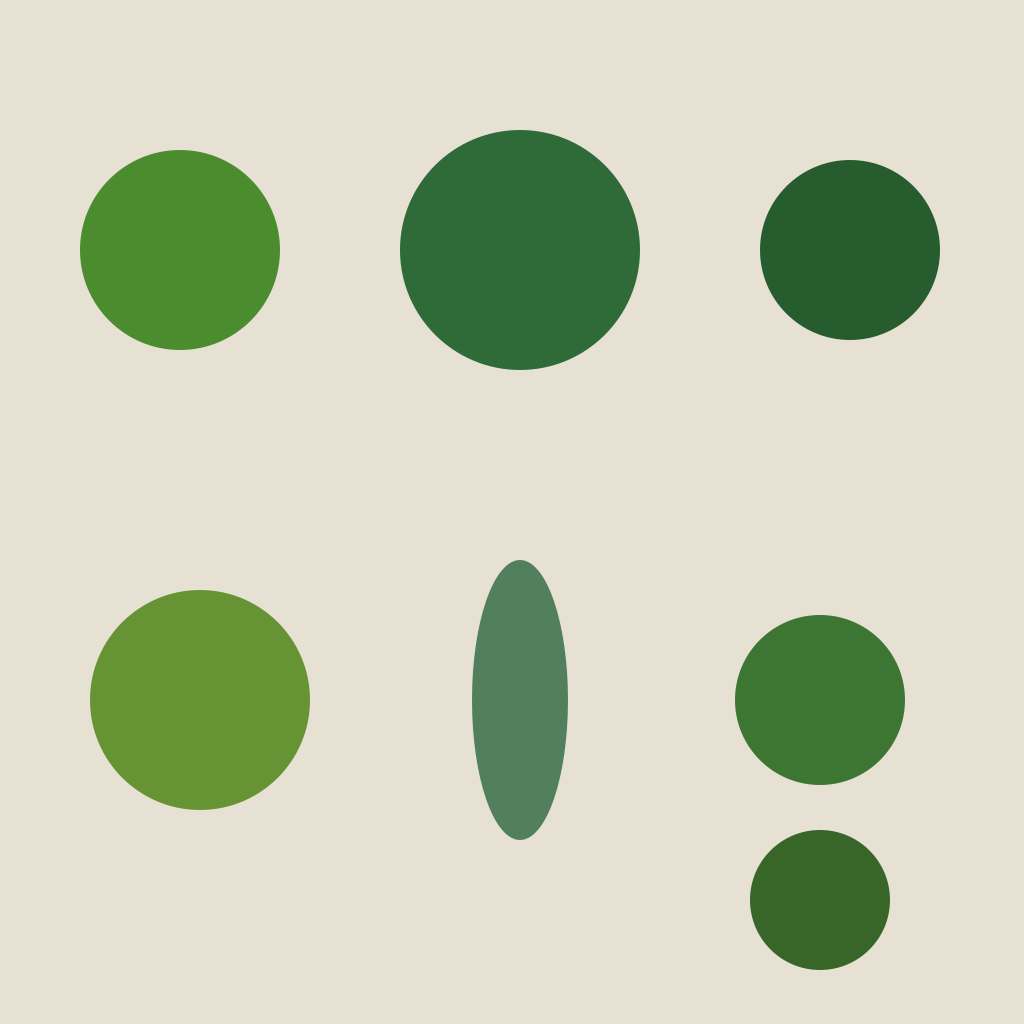
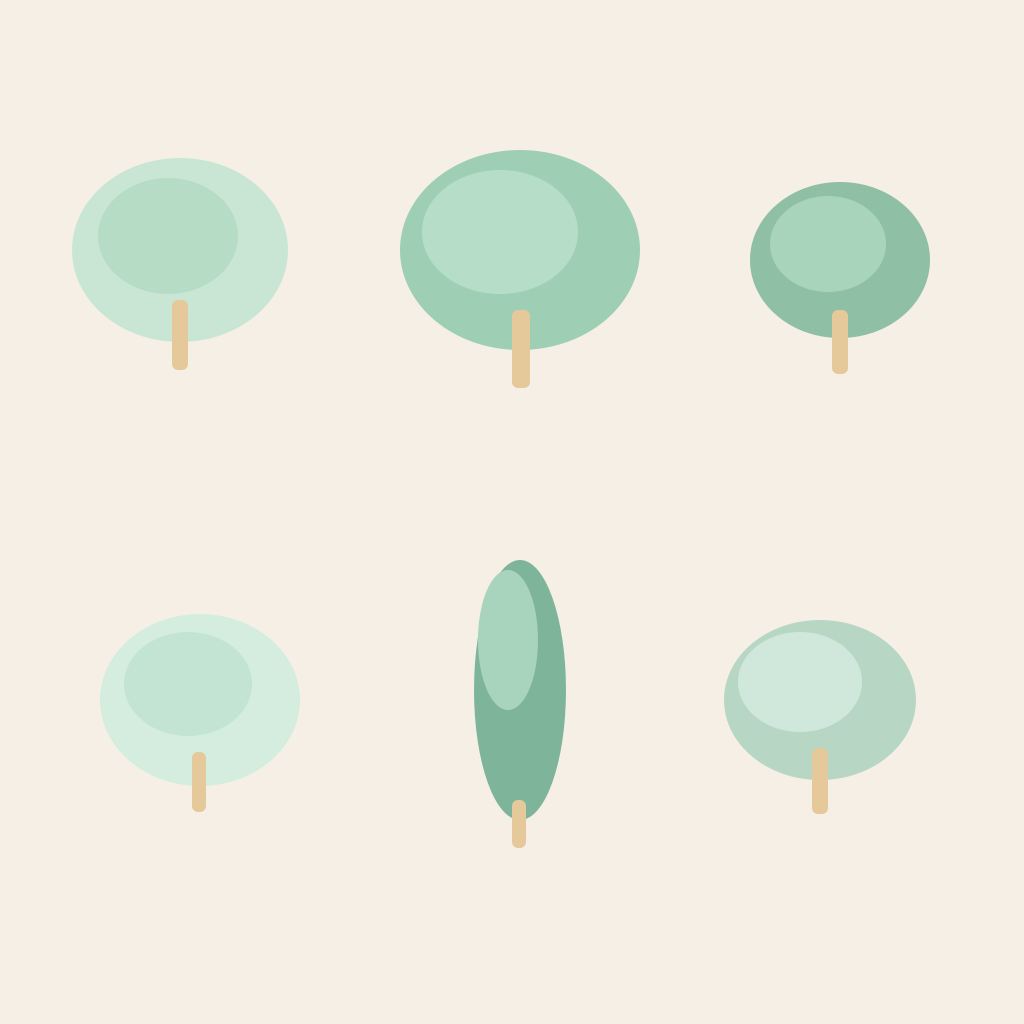
Use the pastel game style and reject invented roof ridges.
Style C is the paint reference: the Grote Markt tile plus mint and sage crowns. The shared prompt locks geometry and keeps flat roofs flat. Roof-tile texture still passes; a new ridge on a flat block is retried.

diff --git a/pipeline/src/paint.ts b/pipeline/src/paint.ts
@@ -25,49 +25,50 @@ import { GROUND_H, openArea } from "./areas.ts";
 import { CAMERA, llhToPixel } from "./camera.ts";
 import { DERIVED, PIPELINE, readJson, writeAtomic } from "./paths.ts";
 import { SEA_H, readHeights } from "./heights.ts";
-import { applyRegistration, register } from "./register.ts";
+import { applyRegistration, register, roofNovelty } from "./register.ts";
 import {
   PRICE_1K_USD, choosePaintMode, estimateUsd, geminiEdit, runGeminiBatch, type GeminiImage,
 } from "./gemini.ts";
-import { MIN_MATCH, MIN_TEXTURE, paintVerdict, shouldWarp } from "./paintqa.ts";
+import { MAX_ROOF_NOVELTY, MIN_MATCH, MIN_TEXTURE, paintVerdict, shouldWarp } from "./paintqa.ts";
 
 const WIN = 1024, OVERLAP = 128, STRIDE = WIN - OVERLAP, T = CAMERA.tile;
 /** Blend band in the middle of each overlap; outside it a window's own pixels win outright. */
 const FEATHER = 64;
 const STYLE = join(PIPELINE, "style", "reference.png");
-const TREES = join(PIPELINE, "style", "trees.png"); // species sheet (painted once with Codex)
+const TREES = join(PIPELINE, "style", "trees.png"); // pastel mint and sage crowns, style C
 const SEA = join(PIPELINE, "style", "sea.png");
-const PROMPT = `Use your image generation tool. Four images are attached:
-1. input.png: an orthographic aerial render (camera tilted 45° down, no perspective) of a simple 3D model \
-of {title}, Belgium, built from Flemish open data. ~256 m across. The layout is exact; the colours are flat \
-placeholders (grey = asphalt with lane markings, pale = pavement/plaza, green = grass/park, \
-blue = the Leie or another waterway, brown dashes = rail, terracotta = bike path) and the window patterns are schematic hints. \
-Tree crowns are colour-coded by species (see image 4): yellow-green = linden, dark green = plane, \
-deep green = beech, bright green = horse chestnut, blue-green and narrow = poplar, mid green = hornbeam, darker rounded = oak.
-2. height.png: the height map from the SAME camera, pixel-aligned with image 1. Black = ground \
-(streets, squares, water), grey→white = buildings and trees, brighter = taller. Use it to find exact \
-building footprints, edges and heights; open black areas are streets/plazas, not trees. Church spires and the belfry stay the tallest objects.
-3. style.png: the STYLE REFERENCE (a Flemish street, not a photo).
-4. trees.png: crown shapes in the same style. Left to right, top row: linden, plane, beech; bottom row: horse chestnut, poplar, hornbeam, oak.
+/** Style C, pastel game-like, plus the shared geometry lock. Used by every painter. */
+const GEOMETRY_LOCK = `Follow the source massing render as a strict geometric template. Preserve every \
+building position, footprint, height, roof outline, street, square, water, and \
+tree. Do not add, remove, move, merge, or invent buildings, towers, bridges, \
+rivers, vehicles, people, or landmarks. Do not copy objects from any style \
+reference (no glass skyscrapers, palm trees, jacarandas, solar farms, or extra \
+churches). You may add painted windows, shutters, facade color variation, \
+roof-tile texture, cobblestones, and richer deciduous tree canopies, but \
+silhouettes and positions must stay identical. Keep the same isometric camera, \
+framing, and crop. Empty map-edge background stays empty. No text, labels, \
+borders, or watermarks.
+Flat roof planes in the massing stay flat. Paint blush or coral tile colour on that existing plane only. \
+Do not add hips, ridges, gables, or pitched roofs that change the silhouette.`;
 
-Redraw image 1 as a detailed isometric illustrated city in EXACTLY the style of image 3: \
-clean crisp 3D blocks with straight vertical walls, brick townhouses with regular window grids, \
-stone churches and the belfry, stepped gables where the footprint already suggests them, dark tile roofs, \
-saturated but natural colours, realistic varied trees drawn as the species of image 4 seen from above, \
-smooth grey asphalt with lane markings, pale stone pavements, the river in its real banks, soft even daylight, \
-light ambient occlusion, no long shadows, no haze, no photographic noise.
+const STYLE_C = `Bright, stylised, pastel isometric city-map illustration with a cozy \
+city-builder / storybook-game finish. Blush and coral roofs, peach and cream \
+walls, mint and sage tree canopies, pale lavender-grey streets, soft peachy \
+shadows, simplified charming window dots, clean soft shapes, high-key pastel \
+palette, no grit. Still a clear illustrated map, not photorealistic.`;
 
-Geometry comes ONLY from images 1 and 2 — this is a tracing job:
-- Same orthographic camera, framing and scale: the output overlays image 1 pixel-for-pixel.
-- Every building keeps its exact footprint, position, height and roof outline. Draw believable Kortrijk \
-materials: red-brown brick, whitewashed beguinage walls, grey stone churches, dark ceramic roofs. \
-Tall towers stay tall. Do not add, remove, merge or move buildings or trees; do not invent trees over open streets.
-- Streets, squares, parks and the river stay exactly where they are; give them real texture \
-(pale grey stone paving, crosswalks at junctions, grass, water). Parked cars along kerbs only, \
-no cars in the driving lanes.
-- Layering is exactly as in image 1: where a bridge crosses the river or another road, the \
-bridge deck is continuous and on top, and whatever passes underneath is hidden beneath it.
-- Image 3 is only for style. Do not copy its buildings, layout or architecture.
+const PROMPT = `Four images are attached, in order:
+1. input.png: an orthographic massing render (camera tilted 45° down, no perspective) of {title}, Belgium, \
+built from Flemish open data. ~256 m across. Layout is exact. Colours are flat placeholders.
+2. height.png: the height map from the SAME camera, pixel-aligned with image 1. Black = ground, \
+brighter = taller. Use it for footprints and heights. Church spires and the belfry stay the tallest objects.
+3. style.png: STYLE ONLY. A pastel painted tile. Do not copy its buildings, streets, or towers into this frame.
+4. trees.png: pastel crowns for this style. Round mint and sage canopies, one narrow poplar. \
+Repaint every tree already in image 1 with these canopies. Do not add or move trees. Do not use dark forest green.
+
+${GEOMETRY_LOCK}
+
+Style: ${STYLE_C}
 {continuation}Output: one square 1024x1024 image, no text, no labels, no border, no vignette.
 
 When done, copy the final PNG to {out} and reply only with that path.
@@ -386,10 +387,13 @@ function windowPrompt(edges: string[], out: string, gemini: boolean) {
 async function acceptOrRetry(job: Prepared, attempt: number, started: number): Promise<"accept" | "retry"> {
   const { i, j, work, edges } = job;
   const r = await register(join(work, "input.png"), join(work, "out.png"));
-  writeFileSync(join(work, "qa.json"), JSON.stringify(r));
+  const roofs = await roofNovelty(join(work, "input.png"), join(work, "out.png"));
+  writeFileSync(join(work, "qa.json"), JSON.stringify({ ...r, roofNovelty: roofs }));
   const dark = await hasDarkPatch(join(work, "out.png"), join(work, "input.png"));
-  if (paintVerdict({ score: r.score, identity: r.identity, texture: r.texture, dark, attempt }) === "retry") {
-    console.warn(`  ${i}_${j}: ${dark ? "black band or patch" : `match ${r.score.toFixed(2)} < ${MIN_MATCH}`}, repainting`);
+  if (paintVerdict({ score: r.score, identity: r.identity, texture: r.texture, dark, attempt, roofNovelty: roofs }) === "retry") {
+    const why = roofs > MAX_ROOF_NOVELTY ? `roof silhouette changed (${roofs.toFixed(2)})`
+      : dark ? "black band or patch" : `match ${r.score.toFixed(2)} < ${MIN_MATCH}`;
+    console.warn(`  ${i}_${j}: ${why}, repainting`);
     return "retry";
   }
   const structured = r.texture >= MIN_TEXTURE;

diff --git a/pipeline/src/gemini.test.ts b/pipeline/src/gemini.test.ts
@@ -10,7 +10,9 @@ import {
   imagesFromBatchJsonl, readBatchState, requireGeminiKey, runGeminiBatch,
   type FetchImpl, type GeminiImage,
 } from "./gemini.ts";
-import { paintVerdict, shouldWarp } from "./paintqa.ts";
+import { MAX_ROOF_NOVELTY, paintVerdict, shouldWarp } from "./paintqa.ts";
+import { roofNovelty } from "./register.ts";
+import sharp from "sharp";
 
[1 lines of base64/hex data omitted]
 
@@ -166,11 +168,37 @@ test("small tests stay interactive and a whole area uses the batch API", () => {
   assert.equal(estimateUsd(10, true), 5 * PRICE_1K_USD);
 });
 
+async function flatBlock(mode: "plain" | "tiles" | "ridge") {
+  const s = 256;
+  const raw = Buffer.alloc(s * s * 3, 230);
+  for (let y = 40; y < 180; y++) for (let x = 40; x < 200; x++) {
+    const i = (y * s + x) * 3;
+    let r = 170, g = 80, b = 60;
+    if (mode === "tiles" && (x % 6 === 0 || y % 8 === 0)) { r -= 14; g -= 8; b -= 6; }
+    if (mode === "ridge" && Math.abs((y - 40) - (x - 40) * 0.4) < 2) { r = 230; g = 210; b = 190; }
+    raw[i] = r; raw[i + 1] = g; raw[i + 2] = b;
+  }
+  return sharp(raw, { raw: { width: s, height: s, channels: 3 } }).png().toBuffer();
+}
+
+test("roof check allows tile texture and rejects a new ridge on a flat block", async () => {
+  const plain = await flatBlock("plain");
+  const tiles = await flatBlock("tiles");
+  const ridge = await flatBlock("ridge");
+  const texture = await roofNovelty(plain, tiles);
+  const pitched = await roofNovelty(plain, ridge);
+  assert.ok(texture <= MAX_ROOF_NOVELTY, `texture novelty ${texture}`);
+  assert.ok(pitched > MAX_ROOF_NOVELTY, `ridge novelty ${pitched}`);
+});
+
 test("a weak or black paint is retried, then kept on the third attempt", () => {
   assert.equal(paintVerdict({ score: 0.2, identity: 0.9, texture: 0.4, dark: false, attempt: 1 }), "retry");
   assert.equal(paintVerdict({ score: 0.9, identity: 0.8, texture: 0.4, dark: true, attempt: 1 }), "retry");
   assert.equal(paintVerdict({ score: 0.2, identity: 0.9, texture: 0.01, dark: false, attempt: 1 }), "accept");
   assert.equal(paintVerdict({ score: 0.2, identity: 0.9, texture: 0.4, dark: true, attempt: 3 }), "accept");
+  assert.equal(paintVerdict({ score: 0.8, identity: 0.7, texture: 0.4, dark: false, attempt: 1, roofNovelty: 0.1 }), "retry");
+  assert.equal(paintVerdict({ score: 0.8, identity: 0.7, texture: 0.4, dark: false, attempt: 1, roofNovelty: 0.01 }), "accept");
+  assert.ok(MAX_ROOF_NOVELTY < 0.1);
   assert.equal(shouldWarp({ score: 0.7, identity: 0.6, texture: 0.4 }), true);
   assert.equal(shouldWarp({ score: 0.7, identity: 0.6, texture: 0.01 }), false);
 });

diff --git a/pipeline/src/register.ts b/pipeline/src/register.ts
@@ -57,6 +57,50 @@ export async function register(reference: string, painted: string, size = 1024):
   return { scale: best.scale, dx: best.dx * k, dy: best.dy * k, score: best.score, identity, texture };
 }
 
+const ROOF_S = 256;
+const ROOF_BLUR = 1.4;
+
+function sobelGrey(g: Buffer): Float32Array {
+  const e = new Float32Array(ROOF_S * ROOF_S);
+  for (let y = 1; y < ROOF_S - 1; y++) for (let x = 1; x < ROOF_S - 1; x++) {
+    const i = y * ROOF_S + x;
+    const gx = g[i + 1 - ROOF_S] + 2 * g[i + 1] + g[i + 1 + ROOF_S] - g[i - 1 - ROOF_S] - 2 * g[i - 1] - g[i - 1 + ROOF_S];
+    const gy = g[i + ROOF_S - 1] + 2 * g[i + ROOF_S] + g[i + ROOF_S + 1] - g[i - ROOF_S - 1] - 2 * g[i - ROOF_S] - g[i - ROOF_S + 1];
+    e[i] = Math.hypot(gx, gy);
+  }
+  return e;
+}
+
+/**
+ * Share of the render's flat, darker-than-ground surfaces (roof planes and blank wall faces)
+ * where the paint grew a strong new edge.
+ * Fine roof-tile texture stays near 0. A hip, ridge, or gable added to a flat LOD1 roof does not.
+ */
+export async function roofNovelty(reference: string | Buffer, painted: string | Buffer): Promise<number> {
+  const fit = { fit: "fill" as const };
+  const [raw, rg, pg] = await Promise.all([
+    sharp(reference).resize(ROOF_S, ROOF_S, fit).removeAlpha().raw().toBuffer(),
+    sharp(reference).resize(ROOF_S, ROOF_S, fit).greyscale().blur(ROOF_BLUR).raw().toBuffer(),
+    sharp(painted).resize(ROOF_S, ROOF_S, fit).greyscale().blur(ROOF_BLUR).raw().toBuffer(),
+  ]);
+  const re = sobelGrey(rg), pe = sobelGrey(pg);
+  const lums: number[] = [];
+  for (let i = 0; i < ROOF_S * ROOF_S; i++) if (re[i] < 22)
+    lums.push(0.3 * raw[i * 3] + 0.5 * raw[i * 3 + 1] + 0.2 * raw[i * 3 + 2]);
+  if (lums.length < 500) return 0;
+  lums.sort((a, b) => a - b);
+  const med = lums[lums.length >> 1]!;
+  let n = 0, hot = 0;
+  for (let i = 0; i < ROOF_S * ROOF_S; i++) {
+    if (re[i] >= 22) continue;
+    const lum = 0.3 * raw[i * 3] + 0.5 * raw[i * 3 + 1] + 0.2 * raw[i * 3 + 2];
+    if (lum > med - 8) continue;
+    n++;
+    if (pe[i] > 36) hot++;
+  }
+  return n ? hot / n : 0;
+}
+
 /** Warp the painted image by the registration so it overlays the reference. */
 export async function applyRegistration(painted: string, out: string, r: Registration, size = 1024) {
   if (r.scale === 1 && r.dx === 0 && r.dy === 0) return writeAtomic(sharp(painted).resize(size, size).png(), out);

diff --git a/pipeline/src/paintqa.ts b/pipeline/src/paintqa.ts
@@ -9,6 +9,11 @@
 
 export const MIN_MATCH = 0.45;
 export const MIN_TEXTURE = 0.05;
+/**
+ * Max share of flat roof/wall interiors that grew a strong new edge.
+ * Tile texture on the existing plane stays under this. A pitched roof on a flat block does not.
+ */
+export const MAX_ROOF_NOVELTY = 0.04;
 export const MAX_ATTEMPTS = 3;
 
 export interface PaintScore {
@@ -18,10 +23,13 @@ export interface PaintScore {
   dark: boolean;
   /** 1-based attempt. */
   attempt: number;
+  /** From register.roofNovelty. Omitted in tests that only check the edge-map score. */
+  roofNovelty?: number;
 }
 
 export function paintVerdict(input: PaintScore): "accept" | "retry" {
   if (input.dark && input.attempt < MAX_ATTEMPTS) return "retry";
+  if ((input.roofNovelty ?? 0) > MAX_ROOF_NOVELTY && input.attempt < MAX_ATTEMPTS) return "retry";
   const structured = input.texture >= MIN_TEXTURE;
   if (structured && input.score < MIN_MATCH && input.attempt < MAX_ATTEMPTS) return "retry";
   return "accept";

diff --git a/pipeline/page/renderer.ts b/pipeline/page/renderer.ts
@@ -197,8 +197,8 @@ const buildingMaterial = new THREE.ShaderMaterial({
 });
 
 /**
- * Street and park trees of Flanders, as placeholder colours the paint step turns into drawn crowns
- * (style/trees.png). [name, weight, crown colour, crown scale xy, crown scale z, palm?]
+ * Massing colours for tree crowns. The paint step recolours them mint and sage
+ * (style/trees.png, style C). [name, weight, crown colour, crown scale xy, crown scale z, palm?]
  */
 const SPECIES: Array<[string, number, number[], number, number, boolean]> = [
   ["linden", 26, [0.29, 0.55, 0.18], 1.05, 0.8, false],

diff --git a/README.md b/README.md
@@ -2,7 +2,7 @@
 
 An isometric map of Kortrijk you can pan and zoom. Buildings, streets and trees sit where they really are. The picture is a 3D render from Flemish open data; an optional image model repaints each window of that render in one illustrated style, checked so nothing moves.
 
-The pipeline and the viewer are adapted from [Isometric World](https://github.com/krasun/isometricworld) by Dmytro Krasun (MIT). This repository keeps that licence ([LICENSE](LICENSE)). It does **not** include his map tiles, video or style images: those stay with his data credits, and [ATTRIBUTION.md](ATTRIBUTION.md) in his repository says not to reuse them. The style sheets in `pipeline/style/` are original placeholders drawn for Kortrijk.
+The pipeline and the viewer are adapted from [Isometric World](https://github.com/krasun/isometricworld) by Dmytro Krasun (MIT). This repository keeps that licence ([LICENSE](LICENSE)). It does **not** include his map tiles, video or style images: those stay with his data credits, and [ATTRIBUTION.md](ATTRIBUTION.md) in his repository says not to reuse them. The paint style is variant C, a pastel game-like map: `pipeline/style/reference.png` is a painted Grote Markt tile in that palette, and `trees.png` is mint and sage crowns.
 
 Live reference for the look: [isometric Tel Aviv](https://isometricworld.dmytrokrasun.com/tel-aviv-yafo).
 
@@ -52,7 +52,7 @@ npm run dev
 
 Not run in the default build. The viewer shows the render until a painter fills `data/derived/<area>/paint/`.
 
-The default painter is Gemini Nano Banana, model `gemini-nano-banana-2.1` (override with `GEMINI_IMAGE_MODEL`). Secret **`GEMINI_API_KEY`**. Each window sends the render, the height pass, `pipeline/style/reference.png` and `pipeline/style/trees.png`. A result that drifts from the render, or comes back with a black band, is rejected and retried up to three times (`pipeline/src/paintqa.ts`).
+The default painter is Gemini Nano Banana, model `gemini-nano-banana-2.1` (override with `GEMINI_IMAGE_MODEL`). Secret **`GEMINI_API_KEY`**. The same prompt (geometry lock plus style C) is sent to Gemini, Codex, and OpenAI. Each window sends the render, the height pass, `pipeline/style/reference.png` and `pipeline/style/trees.png`. A result that drifts from the render, grows a new roof ridge on a flat block, or comes back with a black band, is rejected and retried up to three times (`pipeline/src/paintqa.ts`). Roof-tile colour on the existing plane is allowed.
 
 | | |
 |---|---|
@@ -74,7 +74,7 @@ Other providers, if you set `PAINT_PROVIDER`:
 - `codex`. The [Codex CLI](https://github.com/openai/codex) on `PATH`, logged into ChatGPT. No API key. This is the upstream tool. No batch mode.
 - `openai`. Secret **`OPENAI_API_KEY`**. Optional `OPENAI_IMAGE_MODEL` (default `gpt-image-1`).
 
-Replace the placeholder style sheets with a painted Flemish reference before spending on the whole city.
+Style C is already the reference. Do not swap in another city's painted tiles.
 
 ## Publishing
 

diff --git a/.claude/skills/paint-tiles/SKILL.md b/.claude/skills/paint-tiles/SKILL.md
@@ -17,12 +17,12 @@ Optional. Export already shows the 3D render wherever `paint/` has no tile. Do n
 
 Gemini prices for `gemini-nano-banana-2.1`: **$0.0336 per 1K image**, **$0.0504 per 2K**. This painter requests 1K (windows are 1024 px). The Batch API is half of that ($0.0168 per 1K image).
 
-Style sheets (original placeholders, not from isometricworld):
+Style is variant C, pastel and game-like. Do not replace these with Tel Aviv imagery.
 
-- `pipeline/style/reference.png`
-- `pipeline/style/trees.png`
+- `pipeline/style/reference.png`: a painted Grote Markt and Belfort tile. Blush and coral roofs, peach and cream walls, mint and sage trees, pale lavender streets. Style only. The prompt forbids copying its buildings into another window.
+- `pipeline/style/trees.png`: round mint and sage canopies and one narrow poplar, on a cream ground.
 
-Replace them with a painted Flemish street and crown sheet before a large spend. The prompt is in `pipeline/src/paint.ts`. The HTTP client is `pipeline/src/gemini.ts`.
+The prompt in `pipeline/src/paint.ts` is shared by Gemini, Codex, and OpenAI: the geometry lock, then the style C paragraph. Flat roof planes stay flat. Tile colour on that plane is allowed. Hips, ridges, and gables that change the silhouette are not. The HTTP client is `pipeline/src/gemini.ts`.
 
 ## Commands
 
@@ -55,7 +55,7 @@ Mode, only for `PAINT_PROVIDER=gemini`:
 3. Sends four PNGs, in order: `input.png` (the render), `height.png`, `style.png`, `trees.png`.
 4. Interactive: `POST https://generativelanguage.googleapis.com/v1beta/models/{model}:generateContent` with header `x-goog-api-key`.
 5. Batch: upload a JSONL to the Files API, `POST .../models/{model}:batchGenerateContent`, poll `GET /v1beta/batches/...` until `BATCH_STATE_SUCCEEDED`, download the output JSONL.
-6. `pipeline/src/register.ts` compares edge maps. `pipeline/src/paintqa.ts` retries (up to 3 attempts) when the match is under 0.45 on a textured window or the paint has a black band the render does not. A small shift is warped back.
+6. `pipeline/src/register.ts` compares edge maps, and `roofNovelty` measures strong new edges on surfaces that were flat in the render. `pipeline/src/paintqa.ts` retries (up to 3 attempts) when the match is under 0.45 on a textured window, when roof novelty is over 0.04 (a new ridge on a flat block), or when the paint has a black band the render does not. Roof-tile texture stays under 0.04. A small shift is warped back.
 7. Assembles accepted windows into `paint/<tx>_<ty>.png`.
 
 Open sea reuses `pipeline/style/sea.png` when that file exists. Kortrijk binnenstad has no open sea; the Leie is not at `SEA_H`.

diff --git a/CLAUDE.md b/CLAUDE.md
@@ -20,7 +20,7 @@ Adapted from [Isometric World](https://github.com/krasun/isometricworld) (Dmytro
 | `pipeline/src/export.ts` | AVIF pyramid into `data/web/regions/kortrijk/` |
 | `pipeline/src/hosting.ts` | R2 bucket `simkortrijk-tiles` |
 | `web/` | Astro viewer. `/` and `/kortrijk` |
-| `pipeline/style/` | Original placeholder style sheets, not Tel Aviv's |
+| `pipeline/style/` | Style C (pastel game-like). `reference.png` is the painted Grote Markt tile. `trees.png` is mint/sage crowns. Not Tel Aviv imagery. |
 | `.claude/skills/` | One skill per step |
 
 `data/` is gitignored. Raw downloads are `data/raw/<area>/`. Renders and paints are `data/derived/<area>/`. The viewer reads `data/web/`.
@@ -97,7 +97,8 @@ Do not run `npm run paint` until `GEMINI_API_KEY` is set on purpose. `npm test` 
 - Render uses software WebGL if there is no GPU (`--enable-unsafe-swiftshader`). `-j 2` is a safe default.
 - The dev server 404s `/regions/...` that are not in `data/web` when `TILES_ORIGIN` is empty. Export first.
 - `uitest` treats any HTTP 400+ as a failure, including a tile the index should not have requested.
-- Style sheets in `pipeline/style/` are flat sketches. A real paint run wants a painted reference or the model will follow the sketch.
+- Paint style is variant C: blush and coral roofs, peach and cream walls, mint and sage trees, pale lavender streets. The prompt in `paint.ts` is the geometry lock plus that paragraph. Flat LOD1 roofs stay flat; tile colour is allowed, new hips and ridges are not.
+- `roofNovelty` in `register.ts` retries a paint when more than 4% of flat roof and wall interiors grow a strong new edge. Fine tile texture stays under that. Do not copy Tel Aviv style images into `pipeline/style/`.
 - Whole-city DHMV is a large raster and tens of thousands of GetFeatureInfo calls. Use the binnenstad area until that is what you want.
 
 ## Skills

diff --git a/ATTRIBUTION.md b/ATTRIBUTION.md
@@ -30,7 +30,7 @@ Flemish open data is published for reuse with attribution (Modellicentie voor gr
 
 Optional. The default painter is Google's Gemini image model `gemini-nano-banana-2.1` (`GEMINI_API_KEY`; `GEMINI_IMAGE_MODEL` overrides the id). Codex (`PAINT_PROVIDER=codex`, ChatGPT login, no API key) and OpenAI (`OPENAI_API_KEY`) remain available. Label painted clips "Painted with AI". The binnenstad viewer ships the unpainted render until that step has been run.
 
-`pipeline/style/reference.png` and `pipeline/style/trees.png` are original placeholders (a flat isometric sketch and a crown sheet). They are not the Tel Aviv style images. Replace them with a painted Flemish reference before a large paint run.
+`pipeline/style/reference.png` is a Kortrijk Grote Markt tile painted in style C (pastel, game-like). `pipeline/style/trees.png` is a mint and sage crown sheet drawn for the same palette. Neither image is from Isometric World's Tel Aviv set.
 
 ## Software
 
